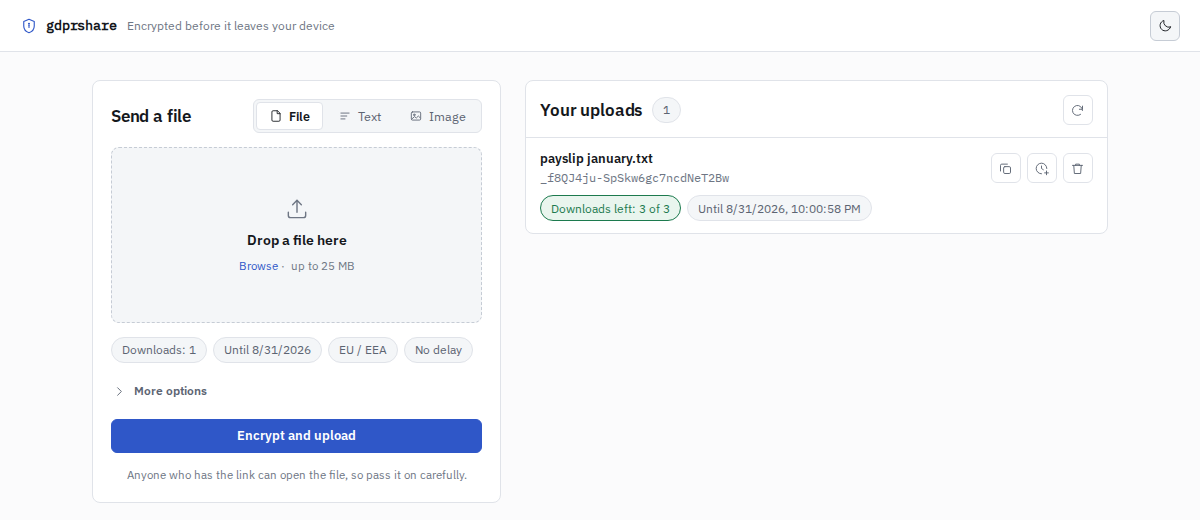
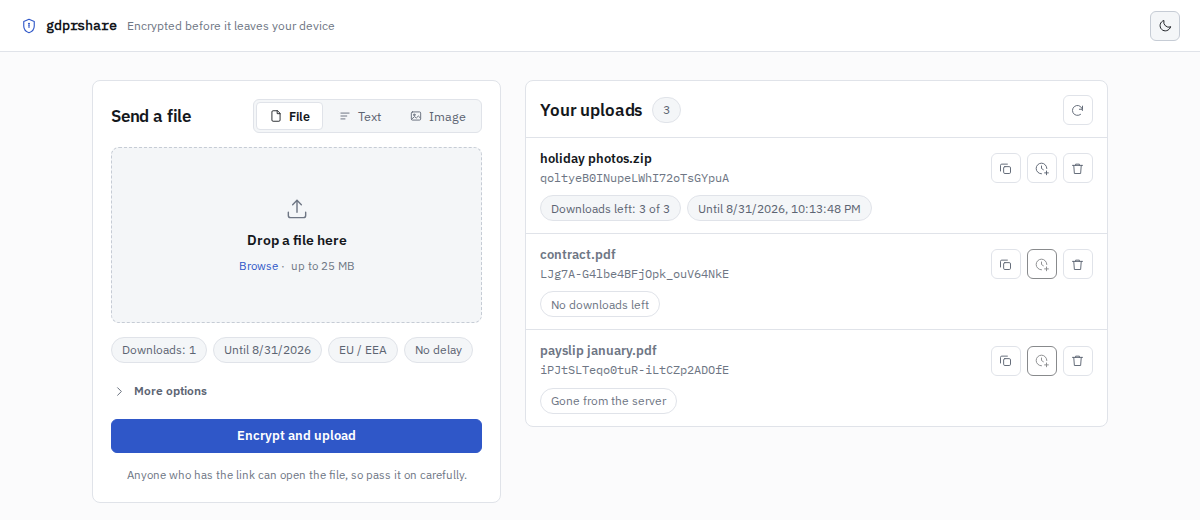
Keep colour for real problems and let ended shares read as a quiet notice

diff --git a/src/style/app.css b/src/style/app.css
@@ -136,11 +136,14 @@
     --accent-soft: #edf1fc;
     --accent-border: #c3d0f2;
     --ok: #1c7a4e;
-    --ok-soft: #e9f5ee;
+    --ok-soft: #eaf4ee;
+    --ok-border: #b9dcc7;
     --warn: #8a5a00;
-    --warn-soft: #fbf2df;
+    --warn-soft: #fbf3e2;
+    --warn-border: #e6d3a8;
     --danger: #b3261e;
-    --danger-soft: #fbebe9;
+    --danger-soft: #fbecea;
+    --danger-border: #edc3bf;
     --radius: 8px;
     --radius-sm: 6px;
     --sans: 'IBM Plex Sans', system-ui, -apple-system, 'Segoe UI', Roboto, 'Helvetica Neue', Arial, sans-serif;
@@ -166,11 +169,14 @@
         --accent-soft: #171d2b;
         --accent-border: #2b3654;
         --ok: #4cc38a;
-        --ok-soft: #12241b;
+        --ok-soft: #13251c;
+        --ok-border: #24493a;
         --warn: #e0b341;
         --warn-soft: #241f10;
+        --warn-border: #4a3d1c;
         --danger: #f0796f;
         --danger-soft: #2a1615;
+        --danger-border: #55302c;
     }
 }
 
@@ -190,11 +196,14 @@
     --accent-soft: #171d2b;
     --accent-border: #2b3654;
     --ok: #4cc38a;
-    --ok-soft: #12241b;
+    --ok-soft: #13251c;
+    --ok-border: #24493a;
     --warn: #e0b341;
     --warn-soft: #241f10;
+    --warn-border: #4a3d1c;
     --danger: #f0796f;
     --danger-soft: #2a1615;
+    --danger-border: #55302c;
 }
 
 /* -------------------------------------------------------------------- base */
@@ -904,6 +913,11 @@ textarea.form-control {
     color: var(--text);
 }
 
+.file-item-ended .file-name,
+.file-item-ended .file-id {
+    color: var(--text-faint);
+}
+
 .file-item.card {
     padding: 12px 14px;
     background: transparent;
@@ -941,21 +955,21 @@ textarea.form-control {
     height: 26px;
     padding: 0 10px;
     border-radius: 999px;
-    border: 1px solid var(--ok);
-    background: var(--ok-soft);
+    border: 1px solid var(--border);
+    background: var(--surface-2);
     font-size: 12px;
-    color: var(--ok);
+    color: var(--text-muted);
     white-space: nowrap;
 }
 
 .expiry-expired {
-    border-color: var(--warn);
-    background: var(--warn-soft);
-    color: var(--warn);
+    border-color: var(--border);
+    background: transparent;
+    color: var(--text-faint);
 }
 
 .expiry-error {
-    border-color: var(--danger);
+    border-color: var(--danger-border);
     background: var(--danger-soft);
     color: var(--danger);
 }
@@ -1014,7 +1028,7 @@ textarea.form-control {
     height: 28px;
     border-radius: 999px;
     background: var(--ok-soft);
-    border: 1px solid var(--ok);
+    border: 1px solid var(--ok-border);
     color: var(--ok);
 }
 
@@ -1041,15 +1055,25 @@ textarea.form-control {
 }
 
 .alert-danger {
-    border-color: var(--danger);
+    border-color: var(--danger-border);
     background: var(--danger-soft);
     color: var(--danger);
 }
 
 .alert-success {
-    border-color: var(--ok);
+    border-color: var(--ok-border);
     background: var(--ok-soft);
     color: var(--ok);
+}
+
+.alert-notice {
+    border-color: var(--border);
+    background: var(--surface-2);
+    color: var(--text-muted);
+}
+
+.alert-notice > svg {
+    color: var(--text-faint);
 }
 
 .alert > svg {
@@ -1241,7 +1265,7 @@ textarea.form-control {
     margin-top: 10px;
     padding: 0 10px;
     border-radius: 999px;
-    border: 1px solid var(--warn);
+    border: 1px solid var(--warn-border);
     background: var(--warn-soft);
     font-size: 12px;
     color: var(--warn);

diff --git a/src/scripts/Download.js b/src/scripts/Download.js
@@ -7,6 +7,10 @@ import Success from './Success'
 import Modal from 'react-modal'
 import { withTranslation } from 'react-i18next'
 
+// Server codes that mean the link itself is finished, as opposed to one that
+// works but not from here or not yet.
+const GONE_CODES = ['file_not_found', 'file_not_found_or_limit_exceeded', 'download_count_expired']
+
 // exported unwrapped for tests, the app uses the translated default export
 export class Download extends React.Component {
     constructor() {
@@ -249,7 +253,7 @@ export class Download extends React.Component {
                 } catch (error) {
                     return gdprshare.asTextErr.call(this, response, error)
                 }
-                return gdprshare.displayErr.call(this, gdprshare.serverErrorText(fetchData))
+                return gdprshare.displayServerErr.call(this, fetchData)
             }
 
             let type = response.headers.get('X-Type')
@@ -320,6 +324,9 @@ export class Download extends React.Component {
 
     render() {
         const t = this.props.t
+        const done = this.state.successful || this.state.imageReady
+        // the link ran out or was deleted: promising a shared file would be a lie
+        const gone = GONE_CODES.indexOf(this.state.errorCode) !== -1
 
         var form = (
             <form className="app-inner" onSubmit={this.handleDownload}>
@@ -364,15 +371,13 @@ export class Download extends React.Component {
                     {status}
                     <div className="app-inner">
                         <div className="d-flex align-items-center gap-3">
-                            <span className={this.state.successful || this.state.imageReady ? 'check-badge' : 'btn btn-icon'}
+                            <span className={done ? 'check-badge' : 'btn btn-icon'}
                                   style={{pointerEvents: 'none'}}>
-                                {this.state.successful || this.state.imageReady
-                                    ? <Check size="16" />
-                                    : <Lock size="15" />}
+                                {done ? <Check size="16" /> : <Lock size="15" />}
                             </span>
                             <div className="d-flex flex-column">
-                                <h4>{t('download.title')}</h4>
-                                <span className="hint">{t('download.subtitle')}</span>
+                                <h4>{gone ? t('download.goneTitle') : t('download.title')}</h4>
+                                {!gone && <span className="hint">{t('download.subtitle')}</span>}
                             </div>
                         </div>
 
@@ -398,7 +403,7 @@ export class Download extends React.Component {
                             </button>
                         )}
 
-                        <Alert error={this.state.error} />
+                        <Alert error={this.state.error} tone={this.state.errorTone} />
                     </div>
                 </div>
 

diff --git a/src/scripts/app.js b/src/scripts/app.js
@@ -11,7 +11,7 @@ import Uploaded from './Uploaded'
 import Download from './Download'
 
 import './Polyfills'
-import i18n, { initI18n, serverErrorText } from './i18n'
+import i18n, { initI18n, serverErrorText, serverErrorIsExpected } from './i18n'
 import { Tooltip } from 'react-tooltip'
 import * as Clipboard from "clipboard-polyfill/dist/clipboard-polyfill.promise"
 
@@ -53,13 +53,24 @@ gdprshare.loadConfig = async function () {
 
 gdprshare.serverErrorText = serverErrorText
 
-gdprshare.displayErr = function (error) {
+gdprshare.displayErr = function (error, tone) {
     console.log(error)
     this.setState({
         error: error.toString(),
+        errorTone: tone || 'error',
         mask: false,
         phase: null,
     })
+}
+
+// Reports a server error response, calling it a notice when it is one.
+gdprshare.displayServerErr = function (data) {
+    gdprshare.displayErr.call(
+        this,
+        serverErrorText(data),
+        serverErrorIsExpected(data) ? 'notice' : 'error',
+    )
+    this.setState({ errorCode: data && data.code })
 }
 
 gdprshare.asTextErr = async function (response, error) {

diff --git a/src/scripts/Alert.js b/src/scripts/Alert.js
@@ -1,5 +1,5 @@
 import React from 'react'
-import { AlertIcon } from './Icons'
+import { AlertIcon, Info } from './Icons'
 import { withTranslation } from 'react-i18next'
 
 class Alert extends React.Component {
@@ -8,7 +8,19 @@ class Alert extends React.Component {
     }
 
     render() {
-        return this.props.error ? (
+        if (!this.props.error)
+            return null
+
+        // an expected end state, like a link that ran out, is not a failure
+        if (this.props.tone === 'notice')
+            return (
+                <div className="alert alert-notice file-alert" role="status">
+                    <Info size="15" />
+                    <span>{this.props.error}</span>
+                </div>
+            )
+
+        return (
             <div className="alert alert-danger file-alert" role="alert">
                 <AlertIcon size="15" />
                 <span className="sr-only">
@@ -16,7 +28,7 @@ class Alert extends React.Component {
                 </span>
                 <span>{this.props.error}</span>
             </div>
-        ) : null
+        )
     }
 }
 

diff --git a/e2e/i18n.spec.js b/e2e/i18n.spec.js
@@ -140,7 +140,9 @@ test.describe('Download page localization', () => {
     // no such file: the API answers with code file_not_found_or_limit_exceeded
     await page.goto('/d/thisfiledoesnotexist#AAAAAAAAAAAAAAAAAAAAAAAAAAAAAAAAAAAAAAAAAAA');
 
-    const alert = page.locator('.alert-danger');
+    // an exhausted or unknown link is an expected end state, so it reads as a
+    // notice rather than an error
+    const alert = page.locator('.alert-notice');
     await expect(alert).toBeVisible({ timeout: 10000 });
     await expect(alert).toContainText(de.errors.server.file_not_found_or_limit_exceeded);
     // the terse English API message must not leak through
@@ -164,7 +166,7 @@ test.describe('Download page localization', () => {
 
     // now the link is exhausted
     await page.goto(url);
-    const alert = page.locator('.alert-danger');
+    const alert = page.locator('.alert-notice');
     await expect(alert).toBeVisible({ timeout: 10000 });
     await expect(alert).toContainText(fr.errors.server.download_count_expired);
     // the terse English API message must not leak through

diff --git a/src/scripts/Upload.js b/src/scripts/Upload.js
@@ -835,6 +835,7 @@ class Upload extends React.Component {
 
         let state
         let canProlong = false
+        let ended = false
 
         if (file.error) {
             console.log(file.error)
@@ -845,6 +846,7 @@ class Upload extends React.Component {
             let isInitDate = expiryDate.getTime() == new Date('0001-01-01T00:00:00Z').getTime()
             let isExpired = isInitDate || file.count < 1 || Date.now() > expiryDate
 
+            ended = isExpired
             if (isExpired) {
                 state = (
                     <span className="expiry expiry-expired">
@@ -872,7 +874,7 @@ class Upload extends React.Component {
         }
 
         return (
-            <div className="file-item card" key={fileId}>
+            <div className={ended ? 'file-item card file-item-ended' : 'file-item card'} key={fileId}>
                 <div className="file-item-top">
                     <div className="d-flex flex-column" style={{minWidth: 0, flexGrow: 1}}>
                         <span className="file-name long-text">{saved.filename}</span>

diff --git a/src/scripts/i18n.js b/src/scripts/i18n.js
@@ -132,6 +132,22 @@ async function fetchLocale(locale) {
     }
 }
 
+// Codes that are the system working as designed rather than something going
+// wrong: the link ran out, was deleted, or is not open yet. They read as a
+// notice instead of an error.
+const expectedStates = [
+    'file_not_found',
+    'file_not_found_or_limit_exceeded',
+    'download_count_expired',
+    'file_not_yet_downloadable',
+    'download_location_forbidden',
+]
+
+// Whether a server error response describes an expected end state.
+export function serverErrorIsExpected(data) {
+    return !!data && expectedStates.indexOf(data.code) !== -1
+}
+
 // Looks up the message for a server error response. Falls back to the English
 // message the API sent whenever the code is missing or not translated yet, so
 // a new backend error is always readable even before its locale entry exists.

diff --git a/e2e/upload-download.spec.js b/e2e/upload-download.spec.js
@@ -451,7 +451,7 @@ test.describe('Full E2E Upload and Download Flow', () => {
     // terse wire message
     const en = JSON.parse(
       fs.readFileSync(path.join(__dirname, '..', 'public', 'locales', 'en.json'), 'utf8'));
-    const errorMessage = downloadPage.locator('.alert-danger');
+    const errorMessage = downloadPage.locator('.alert-notice');
     await expect(errorMessage).toBeVisible({ timeout: 5000 });
     await expect(errorMessage).toContainText(en.errors.server.download_location_forbidden);
 

diff --git a/src/scripts/Icons.js b/src/scripts/Icons.js
@@ -117,6 +117,14 @@ export const AlertIcon = (p) => (
     </Icon>
 )
 
+export const Info = (p) => (
+    <Icon {...p}>
+        <circle cx="12" cy="12" r="8.5" />
+        <path d="M12 11v5" />
+        <circle cx="12" cy="8" r="0.6" fill="currentColor" />
+    </Icon>
+)
+
 export const ChevronDown = (p) => (
     <Icon {...p}>
         <path d="M6 9l6 6 6-6" />
